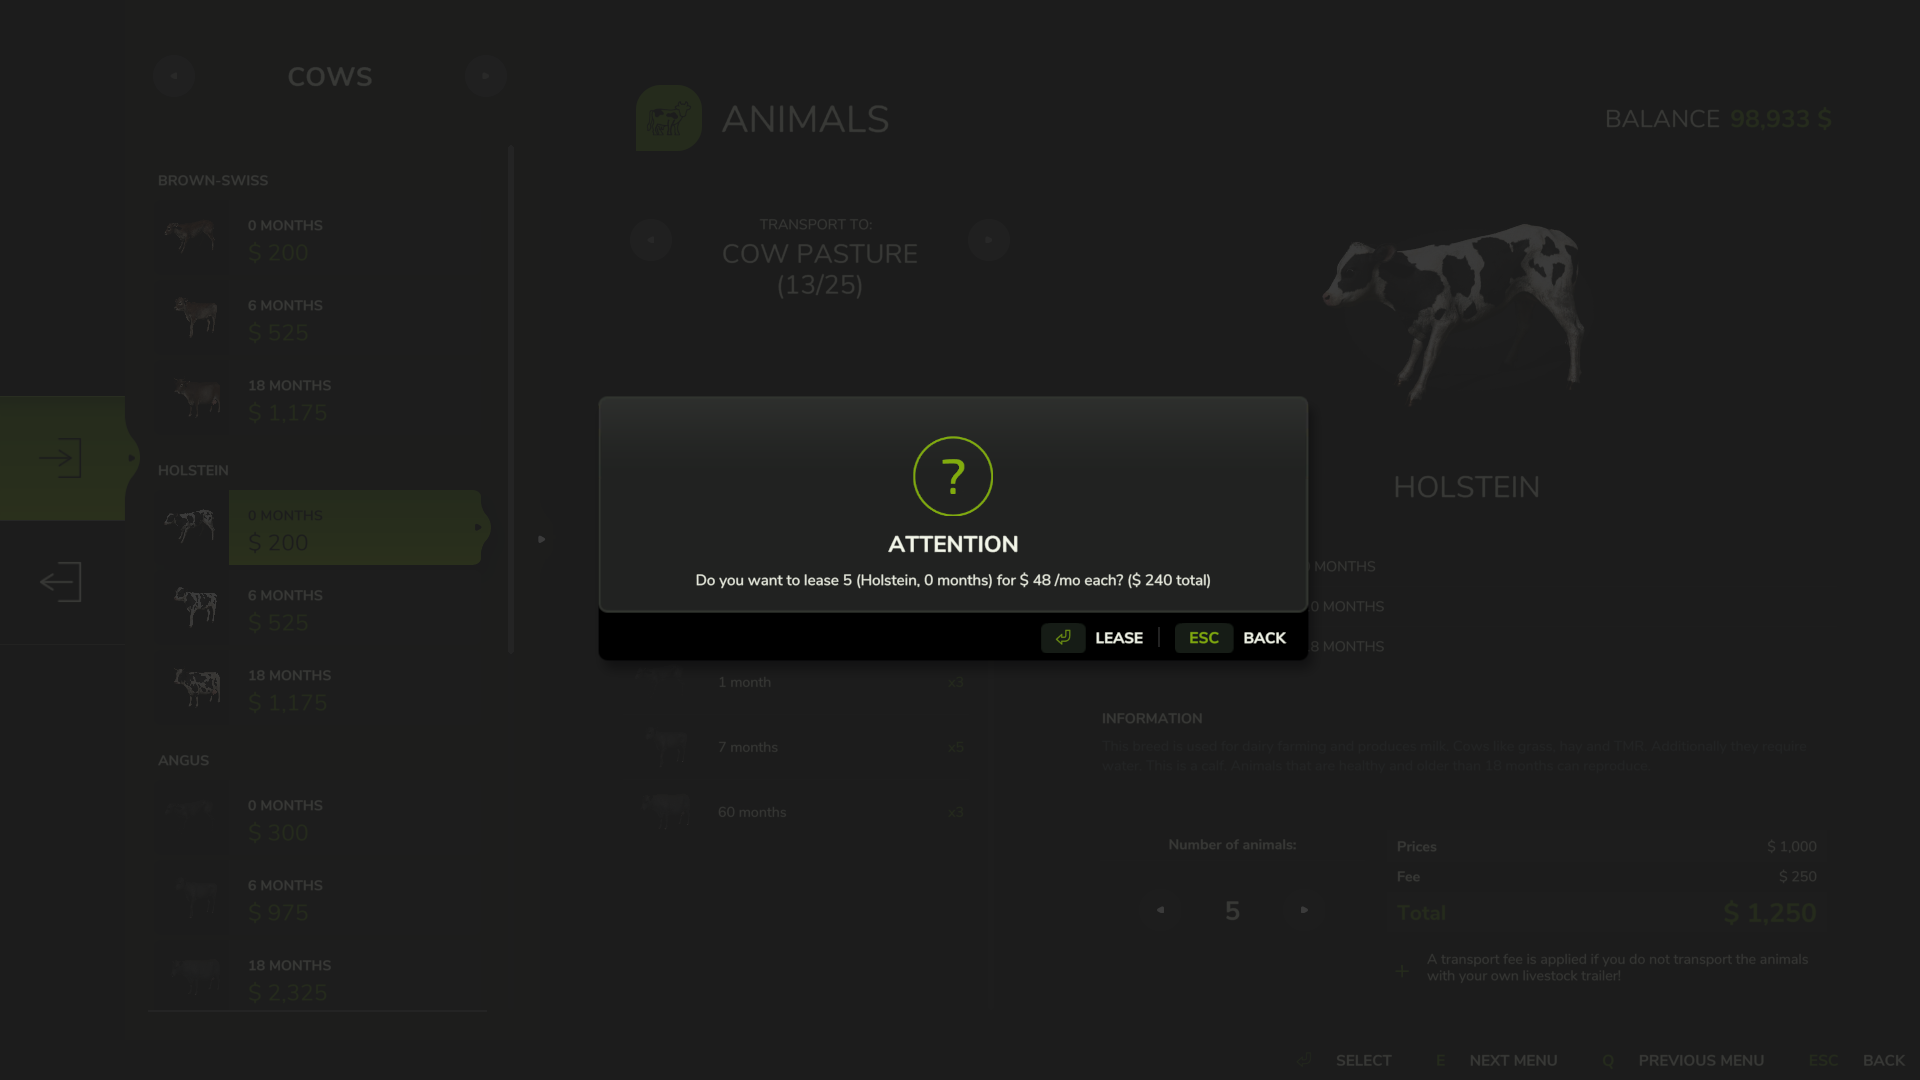
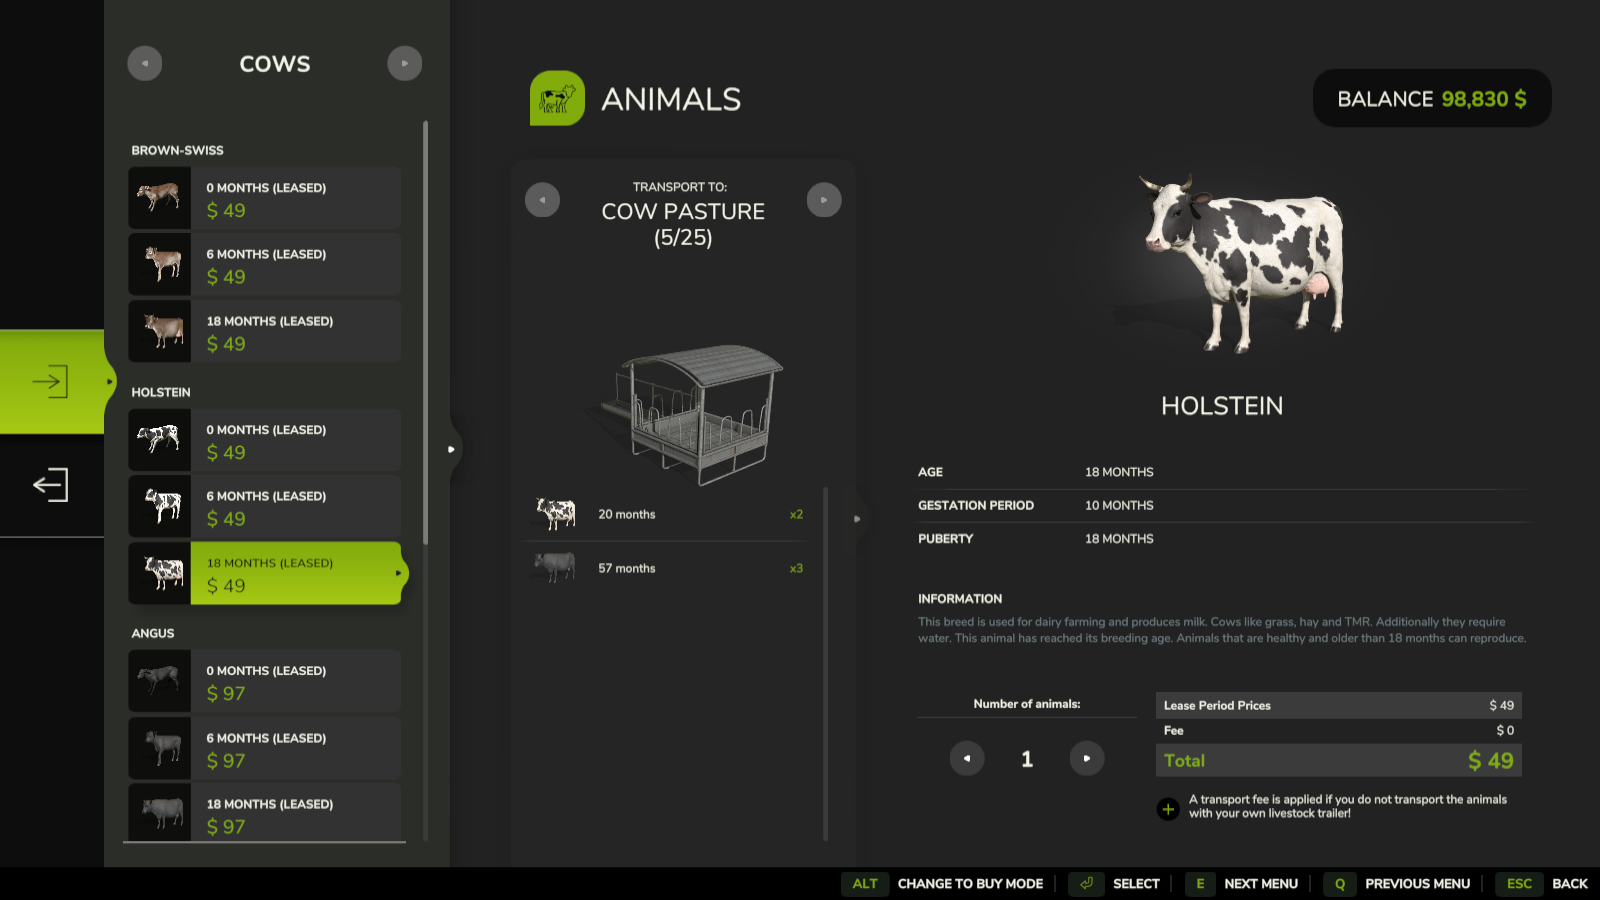
update docs and hotkey name

diff --git a/README.md b/README.md
@@ -4,6 +4,16 @@ Lease livestock from animal dealers instead of buying outright. Leased animals a
 
 ![screenshot 1](https://github.com/EvanKirsch/fs25-lease-livestock/blob/master/screenshots/Screenshot_1.png)
 
+## :spiral_notepad: Implementation Details
+
+### Buy/Lease Mode Toggle
+The animal screen's buy tab gets a mode toggle button (default hotkey: Left Shift) next to the normal Buy button.
+- **Buy Mode** : The default behavior - animals are purchased outright at full price.
+- **Lease Mode** : Every animal card in the list shows its lease rate per period instead of its buy price, and the Buy button becomes a Lease button that leases the selected animals into the barn instead of buying them.
+
+### Terminating a Lease
+Leased animals are tagged "(Leased)" everywhere they appear - the sell list, the info box, and the in-game menu's Animals overview. Selling a leased animal terminates the lease instead: the Sell button becomes a "Terminate Lease" button, and confirming refunds the current period's lease fee with no transport fee deducted.
+
 ## :gear: Manual Install Instructions
 1. Download `FS25_LeaseLivestock.zip` from the [latest release](https://github.com/EvanKirsch/fs25-lease-livestock/releases/latest) on the releases page
 1. Move your downloaded copy of `FS25_LeaseLivestock.zip` to `Documents\My Games\Farming Simulator 2025\mods`
